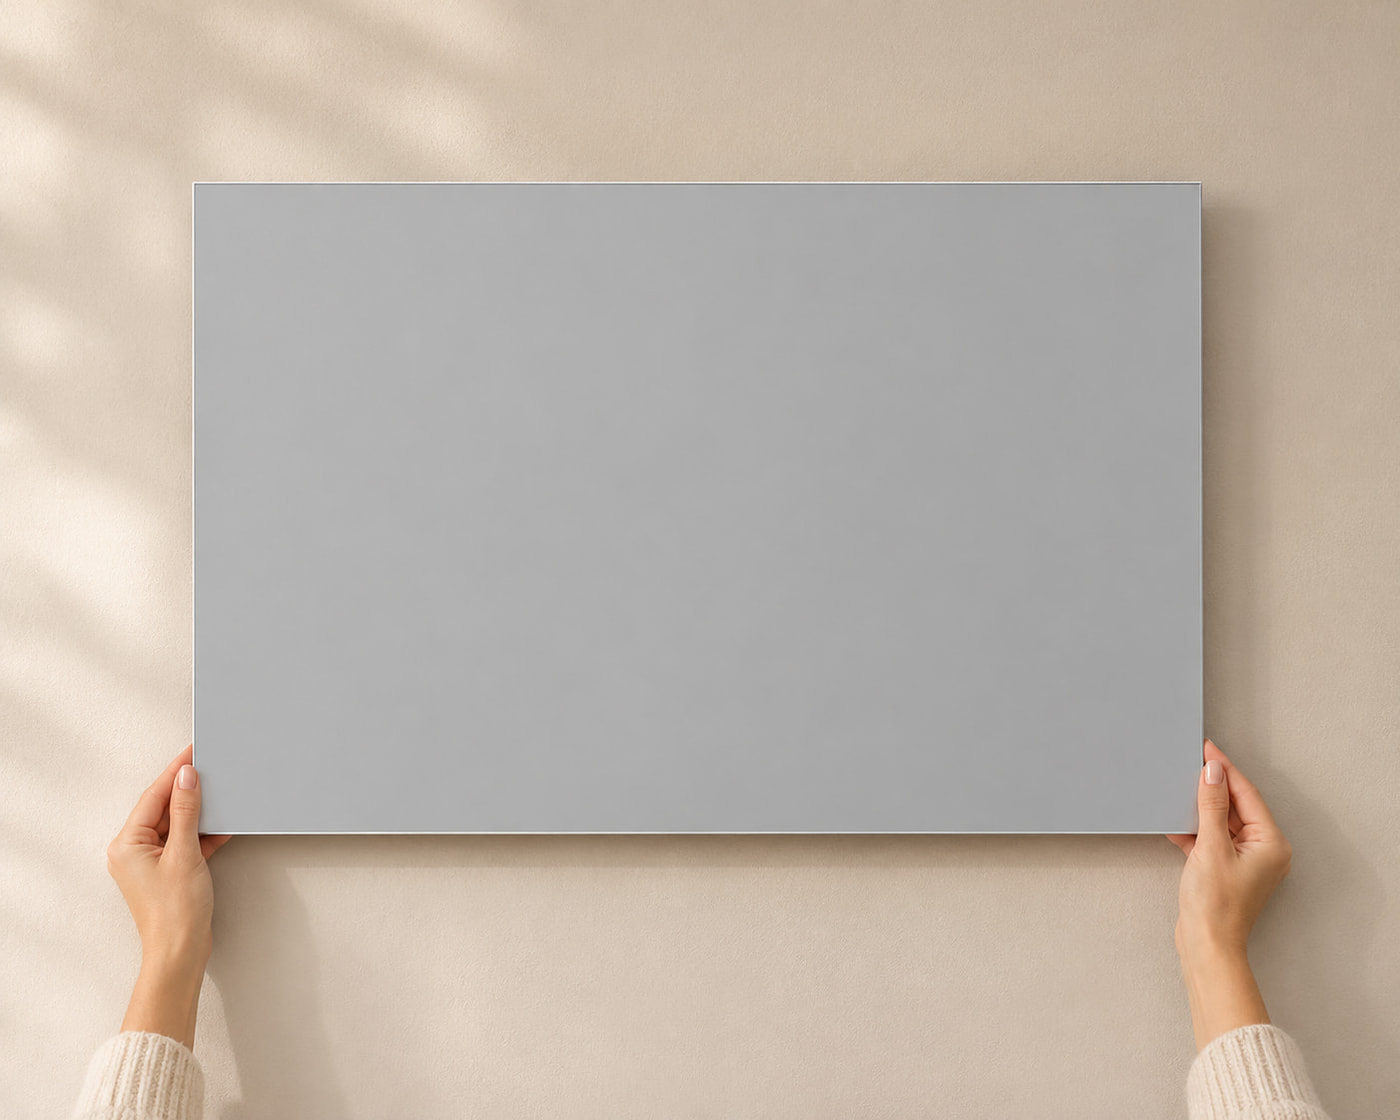
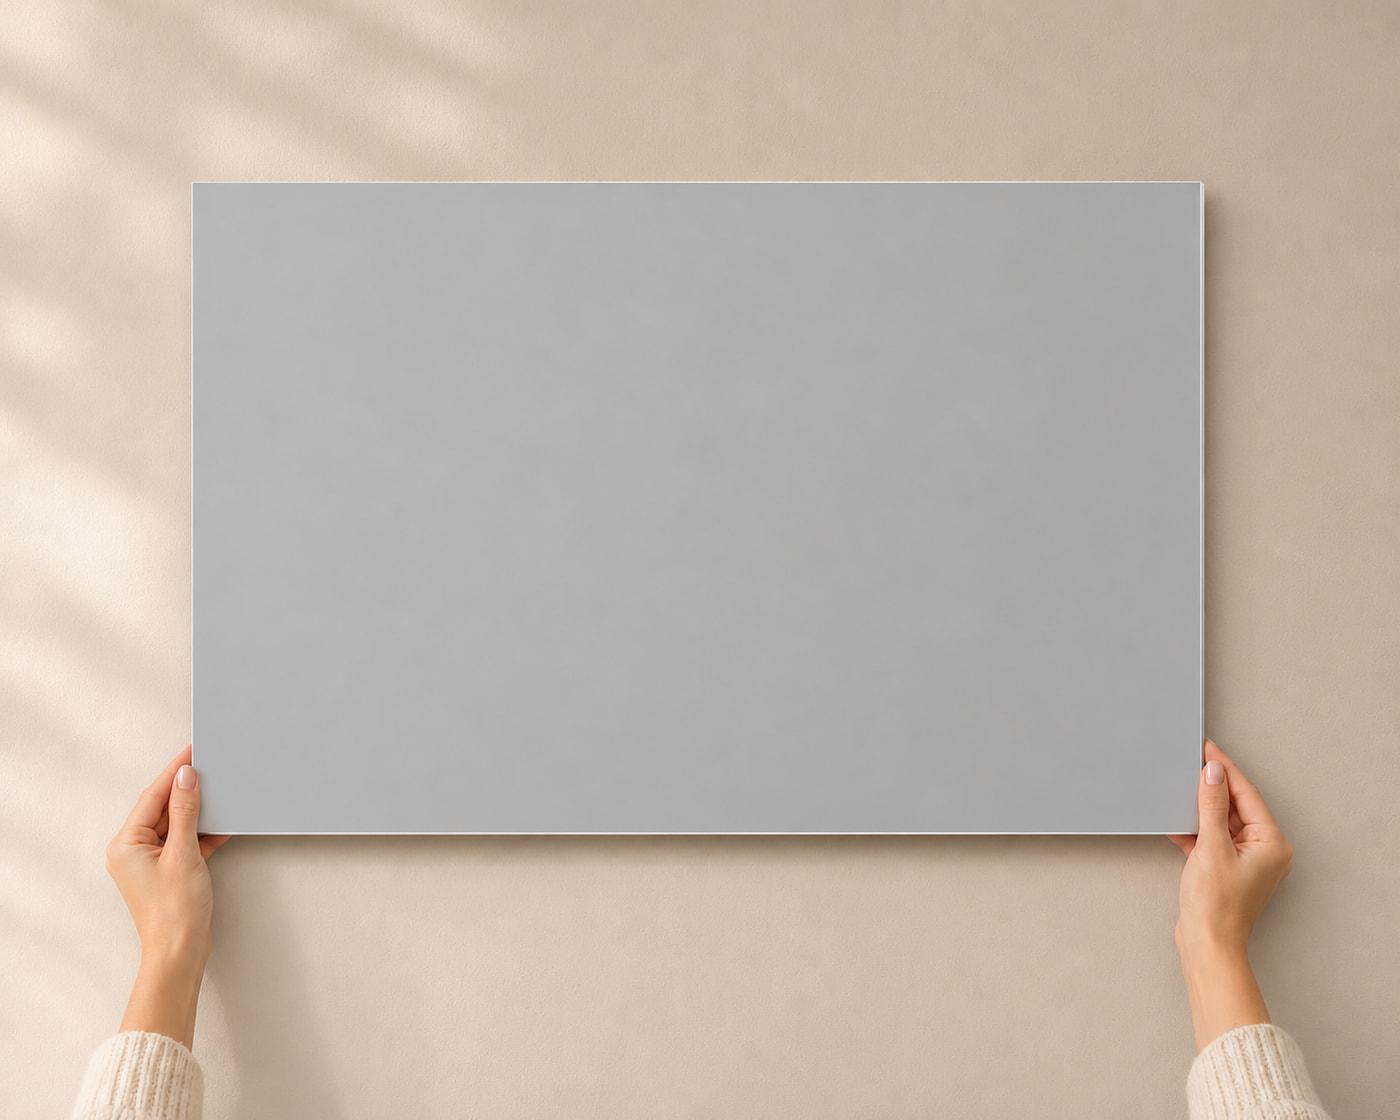
Refine metal lifestyle preview scale

Changed region(s): [[0.1536, 0.75, 0.215, 0.8125], [0.8293, 0.1562, 0.86, 0.1875], [0.0921, 0.9375, 0.1229, 0.9688]]

diff --git a/assets/base.css b/assets/base.css
@@ -420,8 +420,9 @@ textarea { min-height: 9rem; resize: vertical; }
   letter-spacing: 0.13em; text-transform: uppercase; text-align: center;
 }
 .metal-lifestyle {
-  width: 100%;
-  margin: clamp(1.5rem, 3vw, 2.25rem) 0 0;
+  width: 38%;
+  max-width: 22rem;
+  margin: clamp(1.5rem, 3vw, 2.25rem) auto 0;
 }
 .metal-lifestyle[hidden] { display: none; }
 .metal-lifestyle__visual {
@@ -446,22 +447,22 @@ textarea { min-height: 9rem; resize: vertical; }
   box-shadow: inset 0 0 0 1px rgba(255, 255, 255, 0.45), 0 1px 2px rgba(35, 31, 27, 0.14);
 }
 .metal-lifestyle--landscape .metal-lifestyle__panel {
-  left: 15.45%;
-  top: 16.55%;
-  width: 69.1%;
-  aspect-ratio: 3 / 2;
+  left: 13.75%;
+  top: 16.25%;
+  width: 72.4%;
+  height: 58.2%;
 }
 .metal-lifestyle--portrait .metal-lifestyle__panel {
-  left: 30.55%;
-  top: 7.25%;
-  width: 38.9%;
-  aspect-ratio: 2 / 3;
+  left: 28.45%;
+  top: 5.55%;
+  width: 43.2%;
+  height: 77%;
 }
 .metal-lifestyle__art {
   display: block;
   width: 100%;
   height: 100%;
-  object-fit: contain;
+  object-fit: cover;
   background: #b8b9ba;
 }
 .metal-lifestyle__sheen {
@@ -469,7 +470,7 @@ textarea { min-height: 9rem; resize: vertical; }
   inset: 0;
   pointer-events: none;
   background: linear-gradient(118deg, rgba(255, 255, 255, 0.13), transparent 29%, transparent 69%, rgba(255, 255, 255, 0.08));
-  box-shadow: inset 0 0 0 1px rgba(225, 230, 232, 0.7);
+  box-shadow: inset -3px -2px 0 rgba(90, 98, 101, 0.28), inset 0 0 0 1px rgba(225, 230, 232, 0.7);
 }
 .metal-lifestyle figcaption {
   margin-top: 0.6rem;
@@ -478,6 +479,9 @@ textarea { min-height: 9rem; resize: vertical; }
   letter-spacing: 0.13em;
   text-align: center;
   text-transform: uppercase;
+}
+@media (max-width: 749px) {
+  .metal-lifestyle { width: min(72%, 18rem); }
 }
 .product__thumbs { display: flex; gap: 0.6rem; margin-top: 0.8rem; overflow-x: auto; }
 .product__thumbs button { border: 1px solid transparent; padding: 0; background: none; cursor: pointer; width: 4.5rem; flex: 0 0 auto; }
